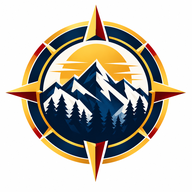
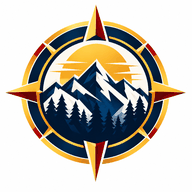
fix(marca): icones PWA/iPhone com o emblema oficial e sem a bussola antiga
- icone maskable proprio, com o emblema inteiro na zona segura (o Android
  recortava as pontas usando o icon-512 comum);
- apple-touch-icon (180px) para "Adicionar a Tela de Inicio" no iPhone;
- icon-192/512 otimizados (paleta 256 cores, sem mudanca visual);
- public/marca-produto.svg (bussola provisoria) deixa de ser publicado; o
  contrato passa a exigir o original oficial em assets/.

diff --git a/src/lib/identidadeDoProduto.contract.test.js b/src/lib/identidadeDoProduto.contract.test.js
@@ -188,8 +188,12 @@ describe('os assets embarcados são do produto, não de um clube', () => {
     expect(NOME_DE_TENANT.test(sw)).toBe(false)
   })
 
-  it('o desenho do ícone do produto fica versionado, para poder ser regerado sem perda', () => {
-    expect(existsSync(join(RAIZ, 'public/marca-produto.svg'))).toBe(true)
-    expect(NOME_DE_TENANT.test(ler('public/marca-produto.svg'))).toBe(false)
+  it('o original do emblema do produto fica versionado (fora do caminho servido), para regerar os ícones sem perda', () => {
+    const original = join(RAIZ, 'assets/logo-desbravaclube-original.png')
+    expect(existsSync(original)).toBe(true)
+    expect(bytes('assets/logo-desbravaclube-original.png').equals(bytes('public/clubes/tenant-001.png'))).toBe(false)
+  })
+  it('a bússola provisória não é mais publicada', () => {
+    expect(existsSync(join(RAIZ, 'public/marca-produto.svg'))).toBe(false)
   })
 })

diff --git a/vite.config.js b/vite.config.js
@@ -127,7 +127,7 @@ export default defineConfig(({ command, mode }) => ({
           { src: '/icon-192.png', sizes: '192x192', type: 'image/png', purpose: 'any' },
           { src: '/icon-512.png', sizes: '512x512', type: 'image/png', purpose: 'any' },
           // `maskable` faz o Android recortar o ícone no formato do sistema sem cortar o desenho
-          { src: '/icon-512.png', sizes: '512x512', type: 'image/png', purpose: 'maskable' }
+          { src: '/icon-512-maskable.png', sizes: '512x512', type: 'image/png', purpose: 'maskable' }
         ]
       }
     }),

diff --git a/index.html b/index.html
@@ -3,6 +3,7 @@
   <head>
     <meta charset="UTF-8" />
     <link rel="icon" type="image/png" href="/logo.png" />
+    <link rel="apple-touch-icon" href="/apple-touch-icon.png" />
     <meta name="viewport" content="width=device-width, initial-scale=1.0, viewport-fit=cover" />
     <meta name="theme-color" content="#1e3a8a" />
     <meta name="description" content="DesbravaClube: o app do clube de Desbravadores — jornada, gestão e documentos oficiais pelo celular." />
